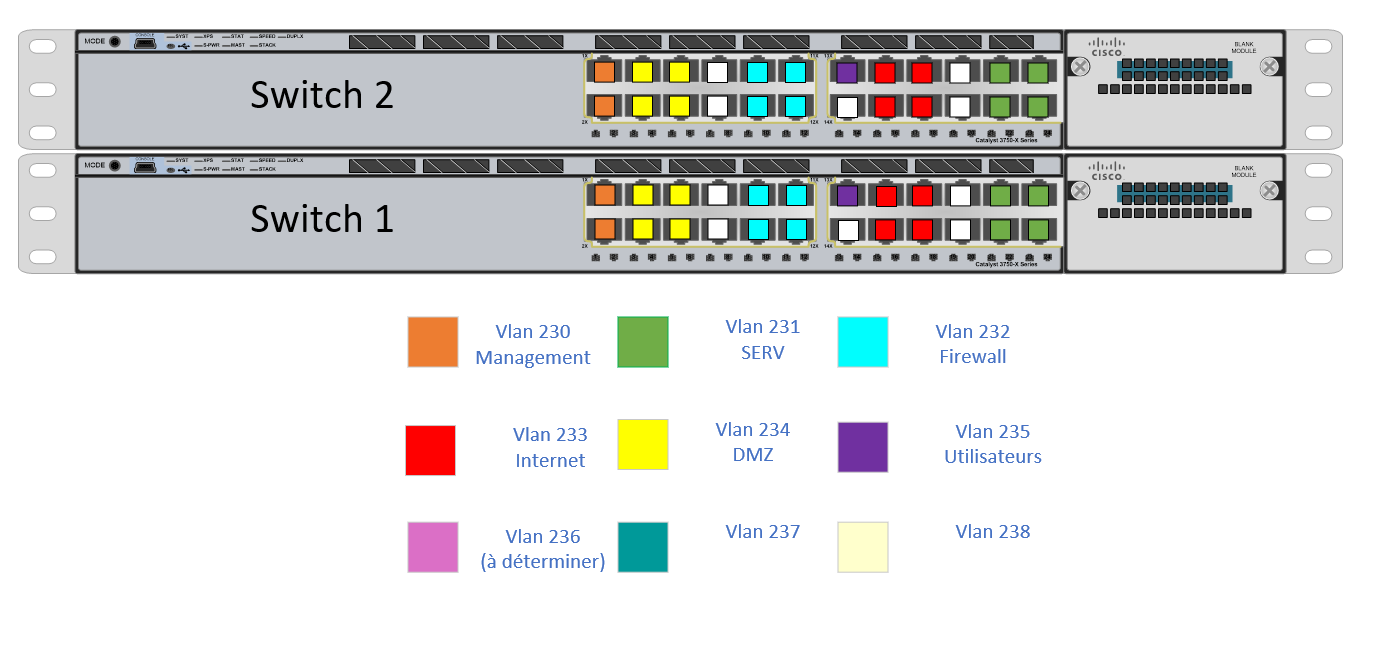
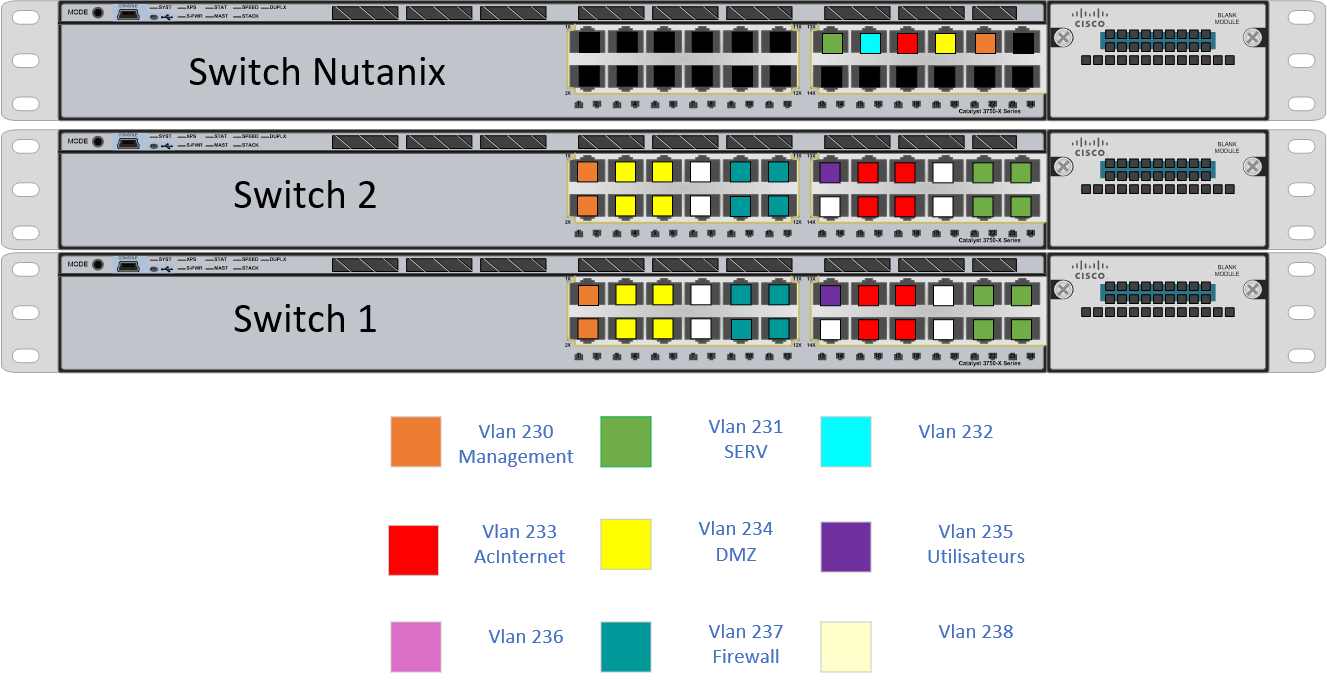
acl + address

diff --git a/docs/adressage.md b/docs/adressage.md
@@ -23,12 +23,12 @@ Laissant ainsi à l'entreprise de la place pour se développer et intégrer de n
 |----|----------|--------|----------------|----------------------|
 | Management | 172.28.64.0 | 172.28.64.255 | /24 | 230
 | SRV | 172.28.65.0 | 172.28.65.255 | /24 | 231
-| firewall | 172.28.70.0 | 172.28.70.255 | /24 | 232
+| /// | 172.28..0 | 172.28..255 | /24 | 232
 | AcInternet | 172.28.71.0 | 172.28.71.255 | /24 | 233
 | DMZ | 192.168.28.0 | 192.168.28.255 | /24 | 234
 | Utilisateurs | 172.28.85.0 | 172.28.85.255 | /24 | 235
 | /// | 172.28..0 | 172.28..255 | /24 | 236
-| /// | 172.28..0 | 172.28..255 | /24 | 237
+| firewall | 172.28.70.0 | 172.28.70.255 | /24 | 237
 | /// | 172.28..0 | 172.28..255 | /24 | 238
 | /// | 172.28..0 | 172.28..255 | /24 | 239
 
@@ -51,9 +51,9 @@ Laissant ainsi à l'entreprise de la place pour se développer et intégrer de n
 
 | Nom Hôte | @IP               | Passerelle    | DNS       | Port assigné          |
 |----------|-------------------|---------------|-----------|-----------------------|
-| Switch   | 172.28.70.254     | 172.28.70.254 | 127.0.0.1 | GigabitEthernet 1/0/9
-| stormshield | 172.28.70.1 | 172.28.70.254 | 127.0.0.1 | GigabitEthernet 1/0/10
-|  | 172.28.70.# | 172.28.70.254 | 127.0.0.1 | GigabitEthernet 1/0/#
+|  | 172.28..254     | 172.28..254 | 127.0.0.1 | GigabitEthernet 1/0/
+|  | 172.28..1 | 172.28..254 | 127.0.0.1 | GigabitEthernet 1/0/
+|  | 172.28..# | 172.28..254 | 127.0.0.1 | GigabitEthernet 1/0/#
 
 ## VLAN 233
 
@@ -77,13 +77,19 @@ Laissant ainsi à l'entreprise de la place pour se développer et intégrer de n
 
 ## VLAN 236
 
-| Nom Hôte | @IP | Passerelle    | DNS | Port assigné |
-|----------|-----|---------------|-----|--------------|
+| Nom Hôte | @IP               | Passerelle    | DNS       | Port assigné          |
+|----------|-------------------|---------------|-----------|-----------------------|
+| Switch   | 172.28..254     | 172.28..254 | 127.0.0.1 | GigabitEthernet 1/0/
+|  | 172.28..1 | 172.28..254 | 127.0.0.1 | GigabitEthernet 1/0/
+|  | 172.28.70.# | 172.28.70.254 | 127.0.0.1 | GigabitEthernet 1/0/#
 
 ## VLAN 237
 
-| Nom Hôte | @IP | Passerelle    | DNS | Port assigné |
-|----------|-----|---------------|-----|--------------|
+| Nom Hôte | @IP               | Passerelle    | DNS       | Port assigné          |
+|----------|-------------------|---------------|-----------|-----------------------|
+| Switch   | 172.28.70.254     | 172.28.70.254 | 127.0.0.1 | GigabitEthernet 1/0/9
+| stormshield | 172.28.70.253 | 172.28.70.254 | 127.0.0.1 | GigabitEthernet 1/0/10
+|  | 172.28.70.# | 172.28.70.254 | 127.0.0.1 | GigabitEthernet 1/0/#
 
 ## VLAN 238
 

diff --git a/docs/ACL.md b/docs/ACL.md
@@ -4,13 +4,14 @@ ACL : Access control list. Les Access lists permettent de filtrer les entrées e
 
 ### Comment utiliser les ACL 
 Après la connection au switch , passer en mode admin avec `enable` et en mode config avec `conf t` <br>
-nous utilisons la commande`access-list 100 permit tcp any any eq 22` 
+nous utilisons la commande `access-list 100 permit tcp 172.28.64.0 any eq 22` 
+on précise l'adresse source pour que seul les connection ssh venant du réseau `64.0` soit accepter
 puis `access-list 100 deny ip any any`
-pour définir l'ACL 100 qui empéchera toute communication sauf le ssh.
+pour définir l'ACL 100 qui empéchera toute communication, le ssh est implicitement autoriser.
 On configure le vlan 230 `int vlan 230`
-et on lui assigne l'ACL 100 avec `ip access-group 100 in`
+et on lui assigne l'ACL 100 avec `ip access-group 100 in` on bloque tout les entrées avec `in` alors que `out` bloque ce qui sort.
 
-| N°ACL | Application | ACL |  |
-|---------------|---------|------------|------|
-| 100 | Vlan 230 | Refuse les entrées et autorise SSH |
+| N°ACL | Application | ACL |
+|---------------|---------|------------|
+| 100 | Vlan 230 | Refuse toute les entrées et autorise le SSH  |
 
